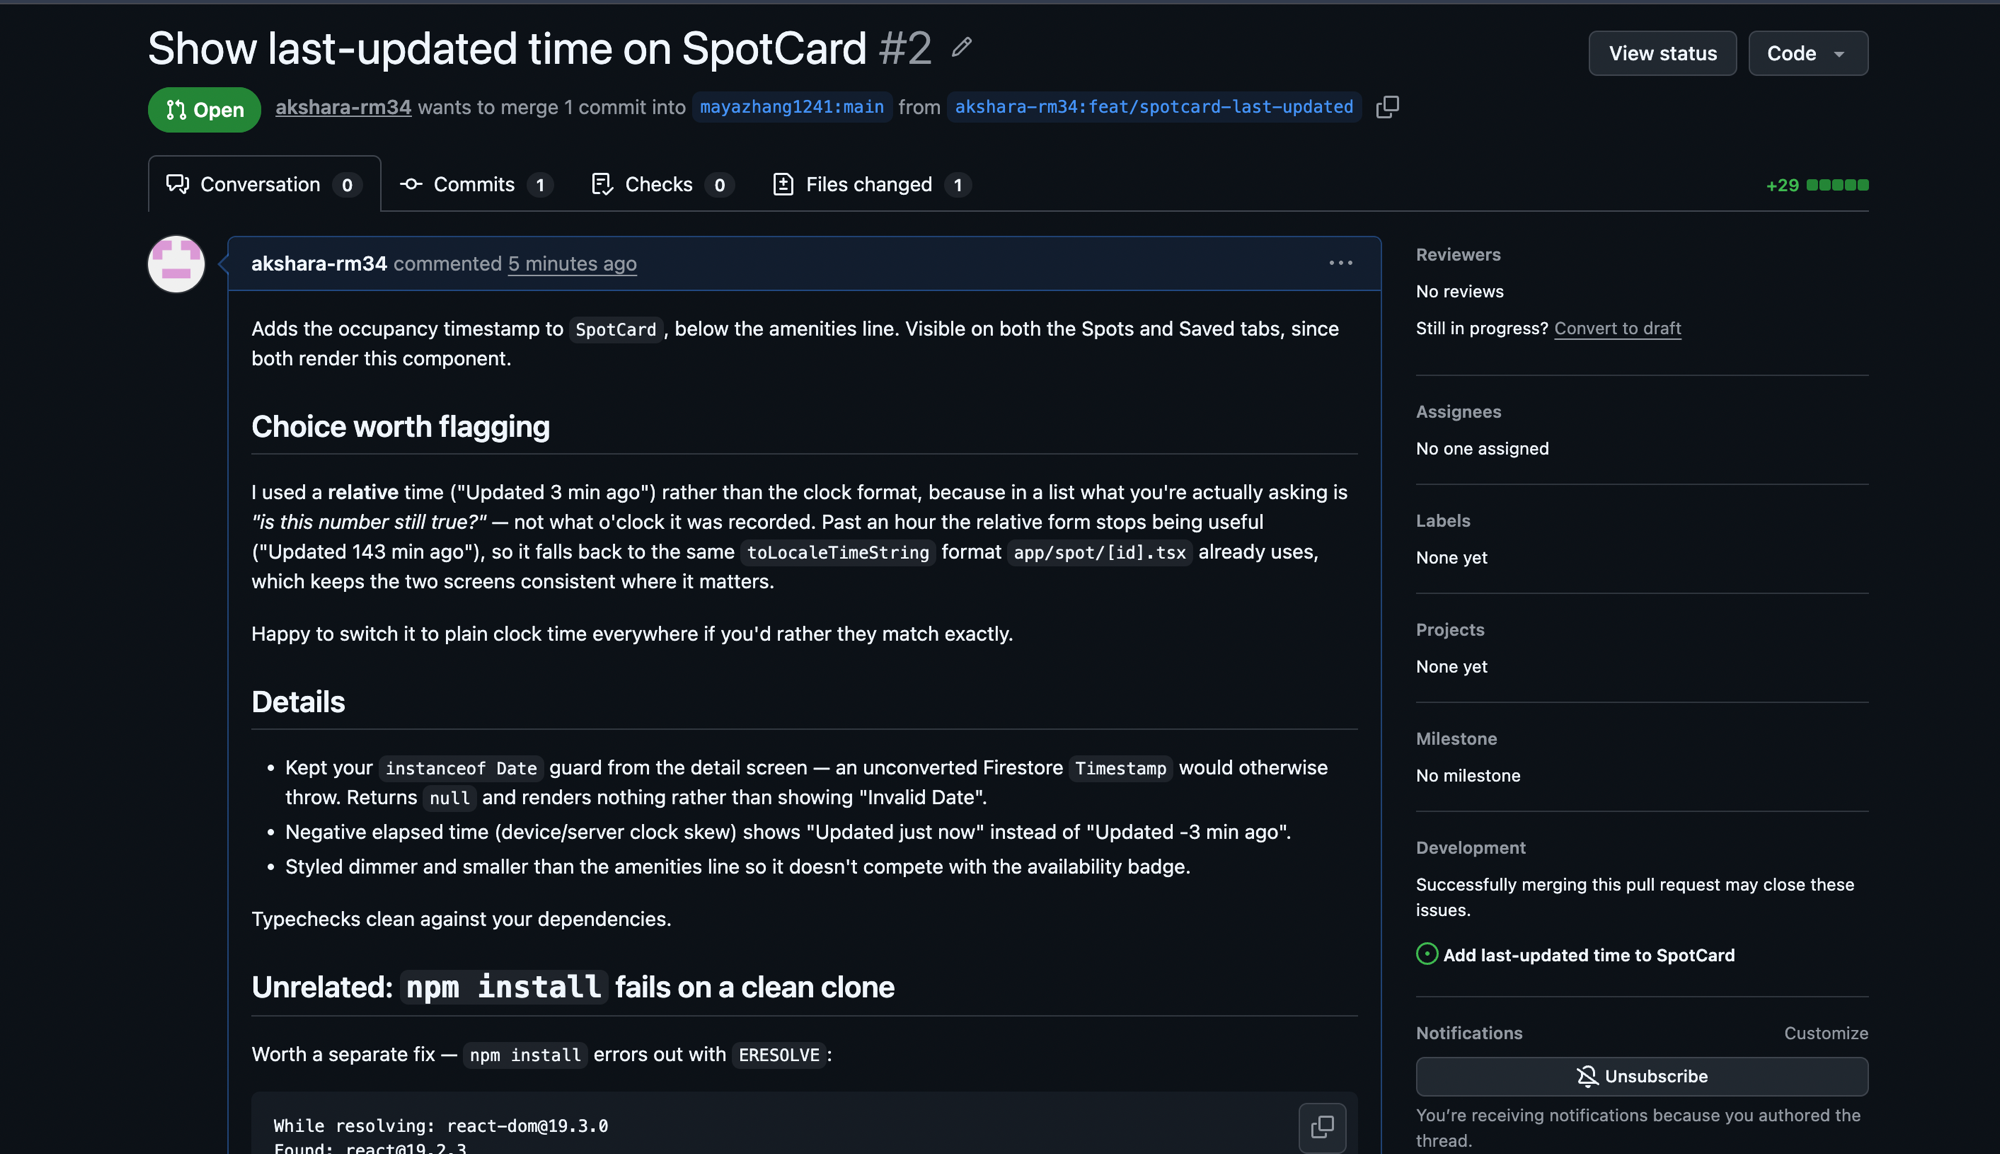
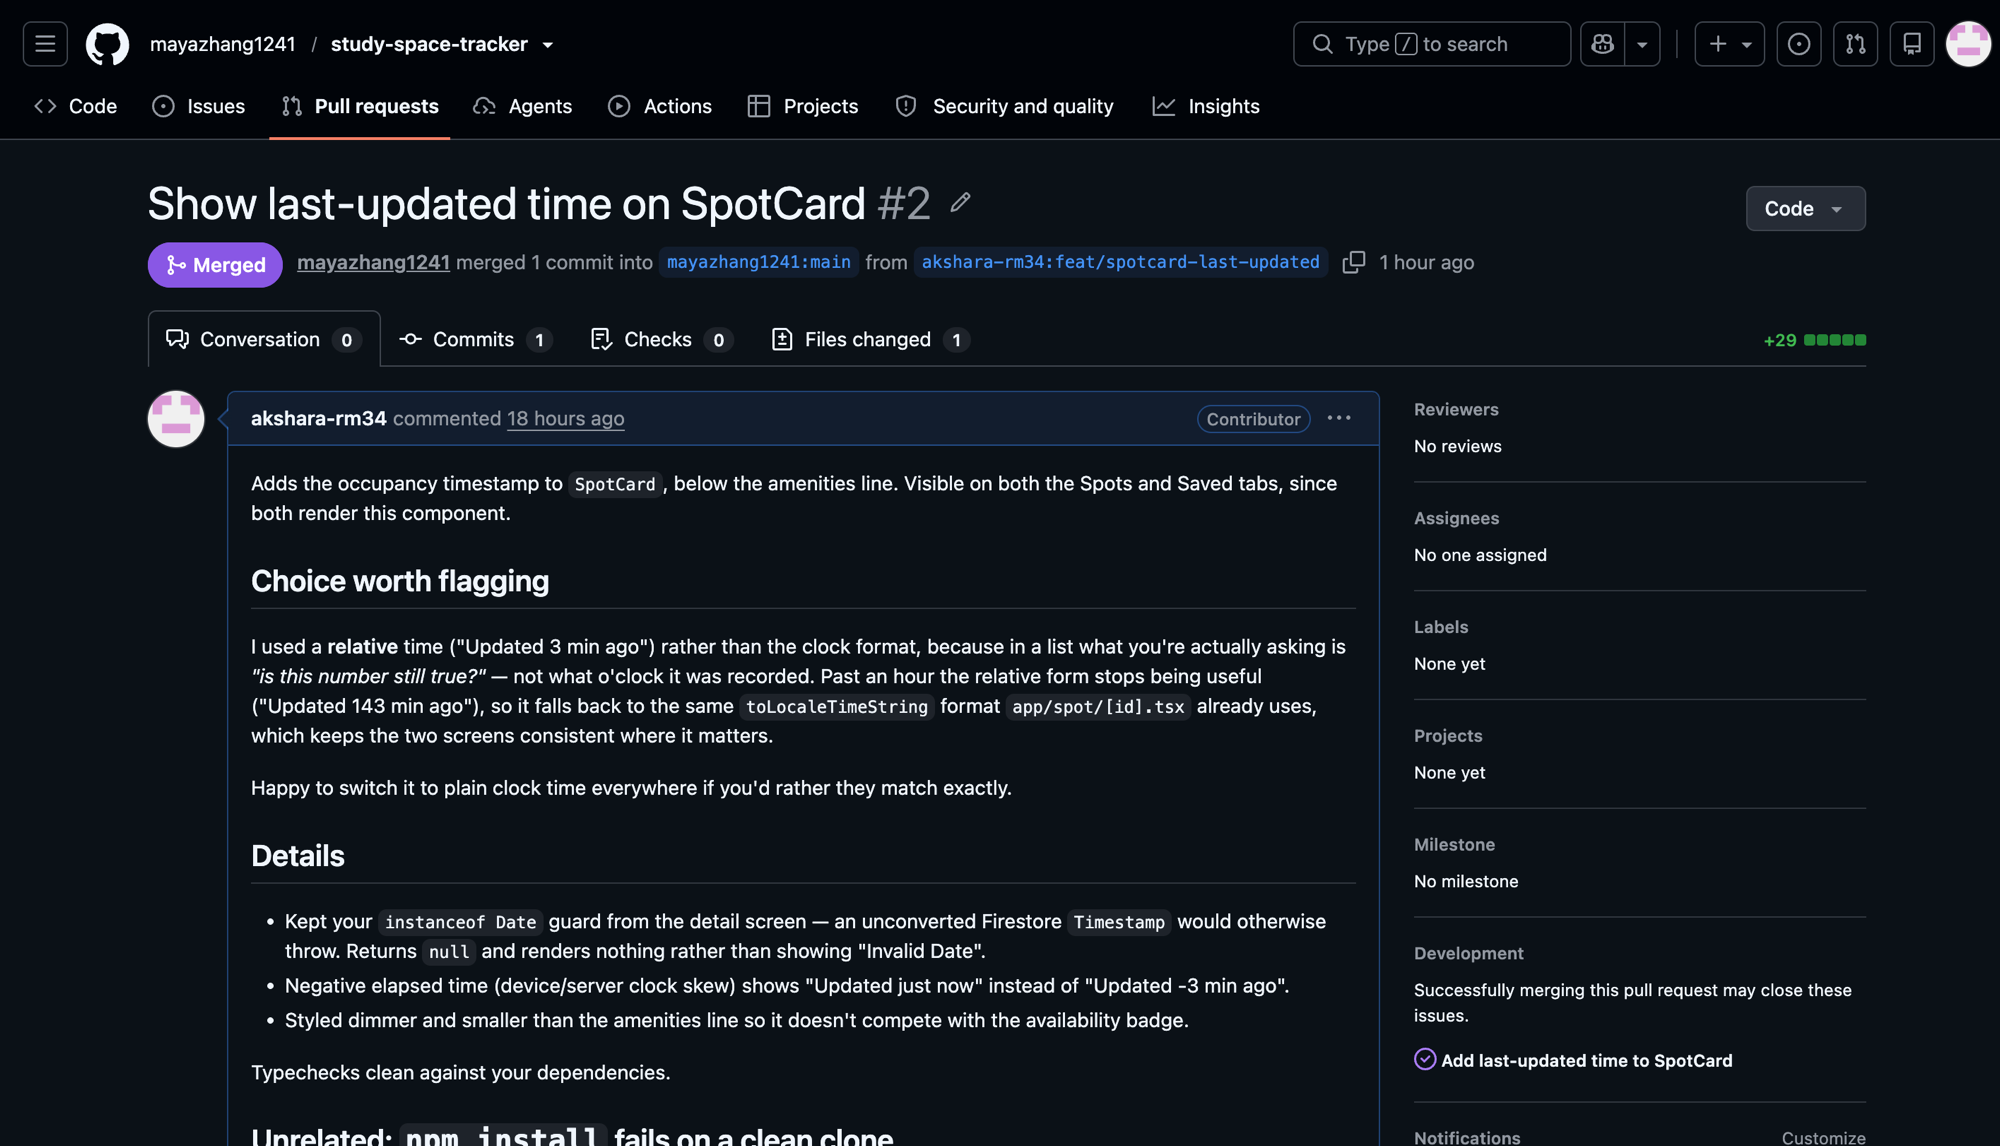
Update partner PR screenshot to the merged state

diff --git a/SUBMISSION.md b/SUBMISSION.md
@@ -470,6 +470,15 @@ number was.
 
 ![PR on Maya's repo](docs/screenshots/22-pr-on-partner-repo.png)
 
+*Merged by Maya, so the commit is in her repository's history:*
+
+```
+83bf540  Maya Zhang    Merge pull request #2 from akshara-rm34/feat/spotcard-last-updated
+fbc9a33  mayazhang     Add expo-linking dependency to package.json
+8c60eaa  akshara-rm34  Show last-updated time on SpotCard
+79553ec  mayazhang     refactor: simplify tab icons and update favorite heart styles
+```
+
 I made a deliberate choice worth defending: a **relative** time ("Updated 3 min ago")
 rather than the clock format her detail screen uses. Scanning a list, the question you're
 actually asking is *"is this number still true?"*, not what o'clock it was recorded.
